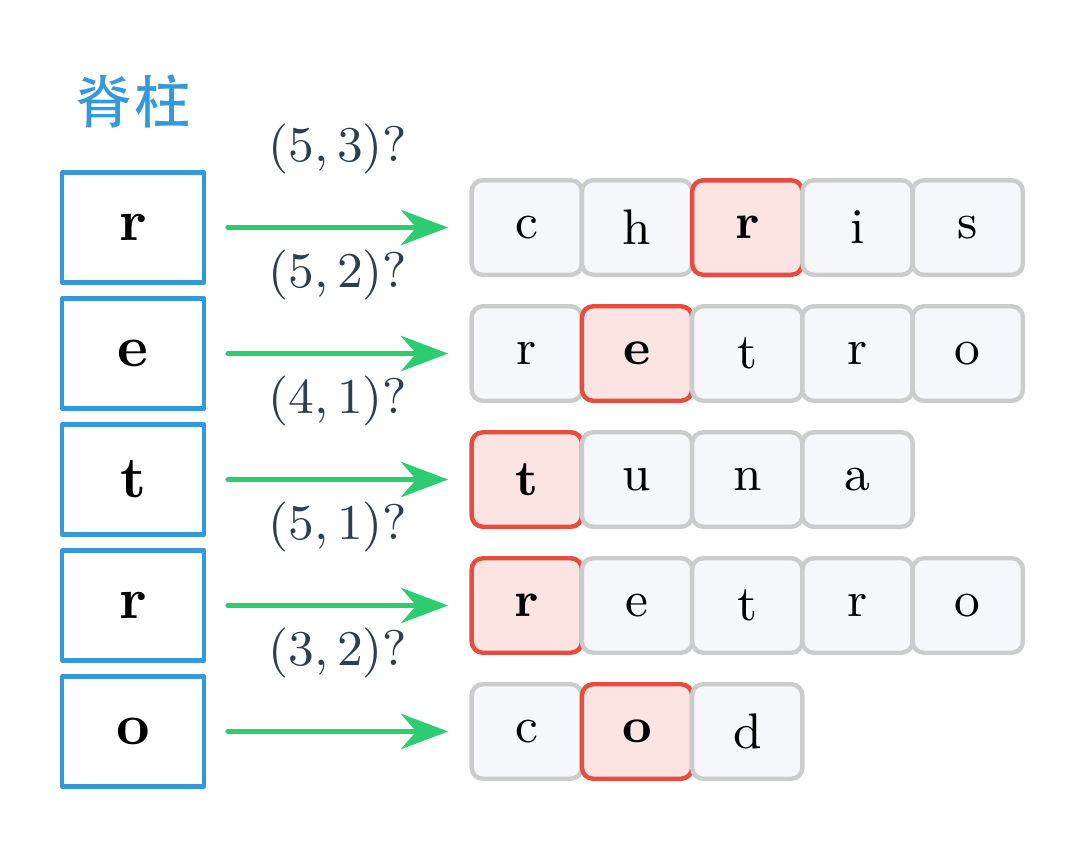
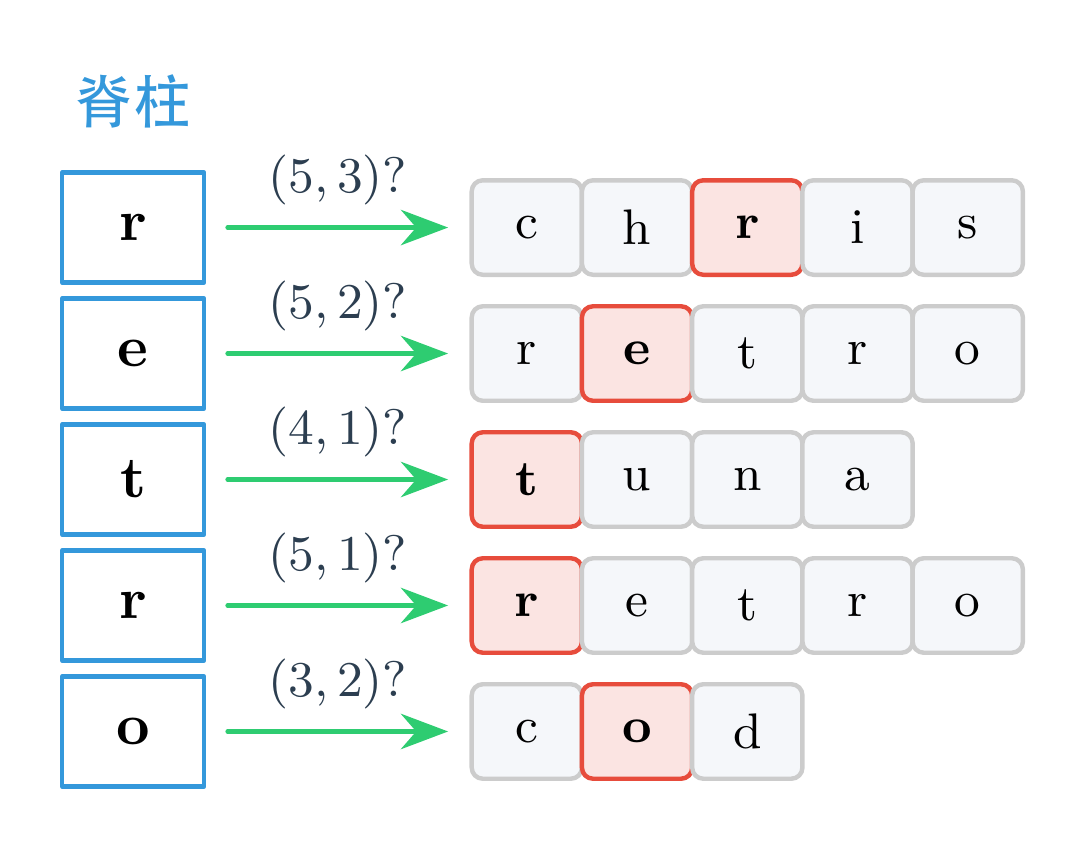
ABC452: lower constraint labels in c_structure diagram

diff --git a/ABC452/figures/c_structure.tex b/ABC452/figures/c_structure.tex
@@ -29,7 +29,7 @@
 
   % Row 1: (5,3)? → chris  (highlight 'r' at pos 3)
   \draw[ribgreen, thick, -{Stealth[length=3mm]}] (1.6,5.4) -- (3.0,5.4);
-  \node[darktext, font=\small] at (2.3,5.9) {$(5,3)?$};
+  \node[darktext, font=\small] at (2.3,5.7) {$(5,3)?$};
   \node[draw=gray!40, fill=lightbg, thick, rounded corners=2pt, minimum width=0.7cm, minimum height=0.6cm, font=\small] at (3.5,5.4) {c};
   \node[draw=gray!40, fill=lightbg, thick, rounded corners=2pt, minimum width=0.7cm, minimum height=0.6cm, font=\small] at (4.2,5.4) {h};
   \node[draw=matchred, fill=matchred!15, thick, rounded corners=2pt, minimum width=0.7cm, minimum height=0.6cm, font=\small\bfseries] at (4.9,5.4) {r};
@@ -38,7 +38,7 @@
 
   % Row 2: (5,2)? → retro  (highlight 'e' at pos 2)
   \draw[ribgreen, thick, -{Stealth[length=3mm]}] (1.6,4.6) -- (3.0,4.6);
-  \node[darktext, font=\small] at (2.3,5.1) {$(5,2)?$};
+  \node[darktext, font=\small] at (2.3,4.9) {$(5,2)?$};
   \node[draw=gray!40, fill=lightbg, thick, rounded corners=2pt, minimum width=0.7cm, minimum height=0.6cm, font=\small] at (3.5,4.6) {r};
   \node[draw=matchred, fill=matchred!15, thick, rounded corners=2pt, minimum width=0.7cm, minimum height=0.6cm, font=\small\bfseries] at (4.2,4.6) {e};
   \node[draw=gray!40, fill=lightbg, thick, rounded corners=2pt, minimum width=0.7cm, minimum height=0.6cm, font=\small] at (4.9,4.6) {t};
@@ -47,7 +47,7 @@
 
   % Row 3: (4,1)? → tuna  (highlight 't' at pos 1)
   \draw[ribgreen, thick, -{Stealth[length=3mm]}] (1.6,3.8) -- (3.0,3.8);
-  \node[darktext, font=\small] at (2.3,4.3) {$(4,1)?$};
+  \node[darktext, font=\small] at (2.3,4.1) {$(4,1)?$};
   \node[draw=matchred, fill=matchred!15, thick, rounded corners=2pt, minimum width=0.7cm, minimum height=0.6cm, font=\small\bfseries] at (3.5,3.8) {t};
   \node[draw=gray!40, fill=lightbg, thick, rounded corners=2pt, minimum width=0.7cm, minimum height=0.6cm, font=\small] at (4.2,3.8) {u};
   \node[draw=gray!40, fill=lightbg, thick, rounded corners=2pt, minimum width=0.7cm, minimum height=0.6cm, font=\small] at (4.9,3.8) {n};
@@ -55,7 +55,7 @@
 
   % Row 4: (5,1)? → retro  (highlight 'r' at pos 1)
   \draw[ribgreen, thick, -{Stealth[length=3mm]}] (1.6,3.0) -- (3.0,3.0);
-  \node[darktext, font=\small] at (2.3,3.5) {$(5,1)?$};
+  \node[darktext, font=\small] at (2.3,3.3) {$(5,1)?$};
   \node[draw=matchred, fill=matchred!15, thick, rounded corners=2pt, minimum width=0.7cm, minimum height=0.6cm, font=\small\bfseries] at (3.5,3.0) {r};
   \node[draw=gray!40, fill=lightbg, thick, rounded corners=2pt, minimum width=0.7cm, minimum height=0.6cm, font=\small] at (4.2,3.0) {e};
   \node[draw=gray!40, fill=lightbg, thick, rounded corners=2pt, minimum width=0.7cm, minimum height=0.6cm, font=\small] at (4.9,3.0) {t};
@@ -64,7 +64,7 @@
 
   % Row 5: (3,2)? → cod  (highlight 'o' at pos 2)
   \draw[ribgreen, thick, -{Stealth[length=3mm]}] (1.6,2.2) -- (3.0,2.2);
-  \node[darktext, font=\small] at (2.3,2.7) {$(3,2)?$};
+  \node[darktext, font=\small] at (2.3,2.5) {$(3,2)?$};
   \node[draw=gray!40, fill=lightbg, thick, rounded corners=2pt, minimum width=0.7cm, minimum height=0.6cm, font=\small] at (3.5,2.2) {c};
   \node[draw=matchred, fill=matchred!15, thick, rounded corners=2pt, minimum width=0.7cm, minimum height=0.6cm, font=\small\bfseries] at (4.2,2.2) {o};
   \node[draw=gray!40, fill=lightbg, thick, rounded corners=2pt, minimum width=0.7cm, minimum height=0.6cm, font=\small] at (4.9,2.2) {d};
